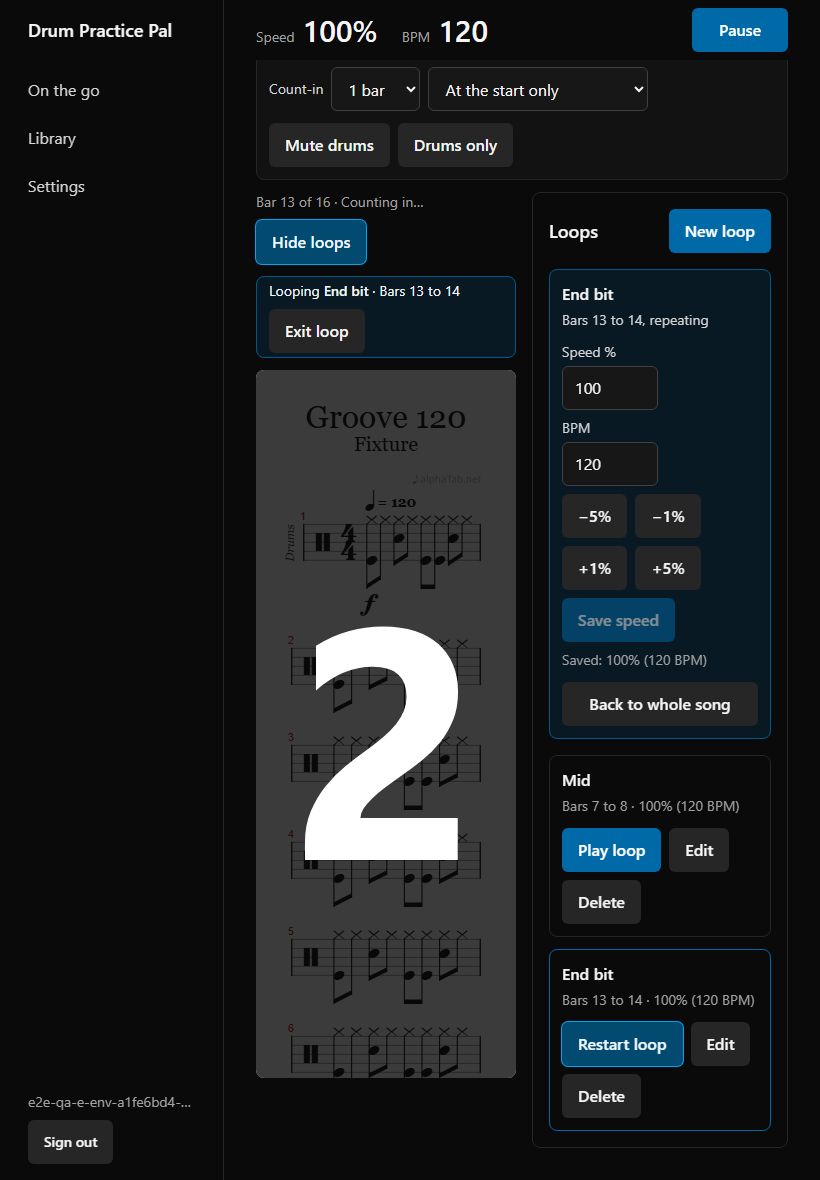
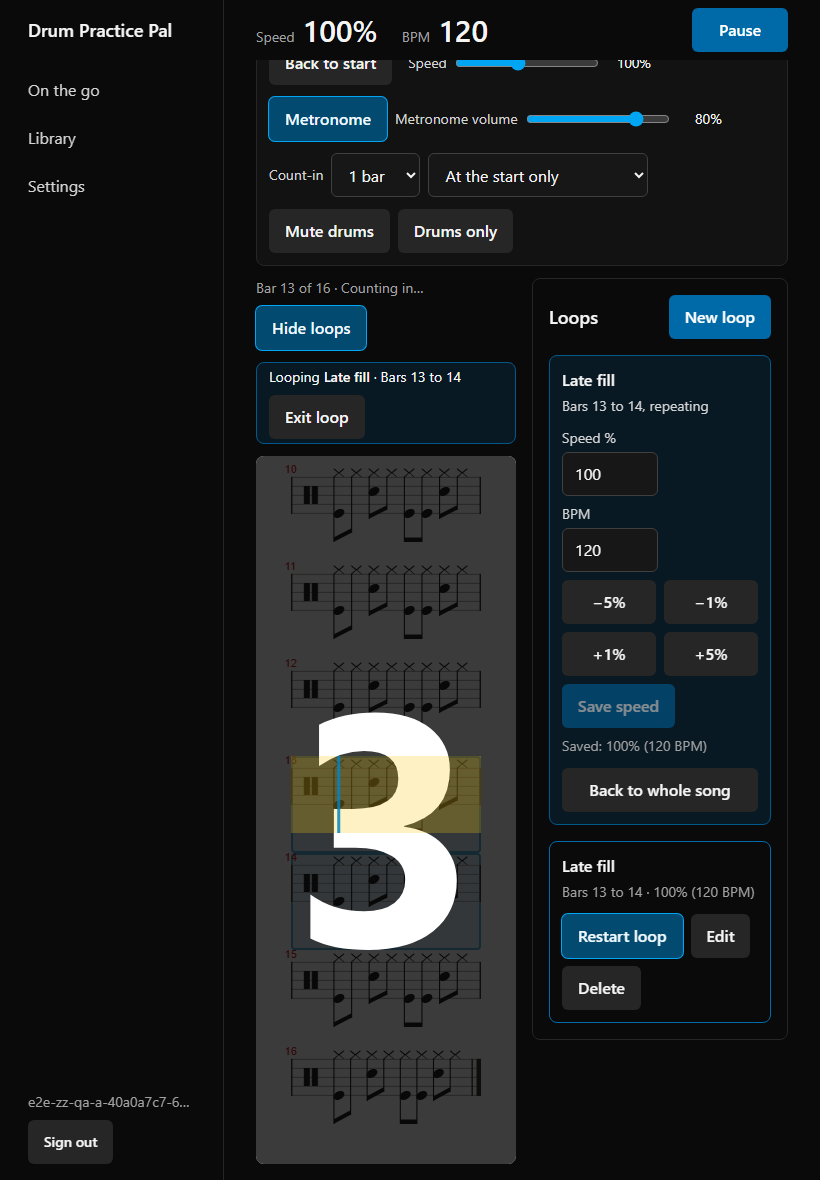
unit 08: qa (round 1 re-run)

diff --git a/docs/units/08-loops.md b/docs/units/08-loops.md
@@ -428,3 +428,77 @@ No other bug. Nothing in Unit 07's count-in changed: `PlayerService.countIn*.tes
 - `npm run e2e`: green, on a build Playwright made itself. 294 tests: 280 passed, 14 skipped (the 10 from before, and tests 4 and 5 on the phone and tablet projects).
 - `npx playwright test tests/e2e/loop-scroll.spec.ts --repeat-each 3`: 78 passed, 12 skipped, no flakes.
 - `npm run test:db`: not run; nothing in the database or `tests/db` changed.
+
+## QA (fix round 1)
+
+**Verdict: PASS.** Issue 1 is fixed as it was reported: "Play loop" on a phone now shows the whole count-in number, and the loop's first bar is in the score box during the count-in at all three sizes. Issue 2 is fixed in its main form. No blocker and no major issue. Five new issues are logged, four minor and one cosmetic; the first of them (N1) is the part of issue 1 the fix does not reach and is the one to read. No app code was changed here. Nothing was heard.
+
+**How it was tested.** Local Supabase, the e2e build (`npm run build -- --mode development`, `vite preview`), headless Chromium from throwaway specs at 390x844, 820x1180 and 1440x900, plus 844x390 and 700 px wide for the rotation and breakpoint runs. The page measured itself on every animation frame through `window.__drumPalPlayer`: status, count-in beat, the score box and its scroll, the bar cursor, the start of the highlight, the count-in number, what `elementFromPoint` finds over the number, and the sheet's `aria-expanded`. So "on every frame" below means every frame of that count-in (about 120 for a one-bar count-in at 120 BPM). Touch projects tapped with `touchscreen.tap` and panned with CDP touch events. The CPU was throttled 6x through CDP for the downbeat runs. The throwaway specs are deleted and their users were removed by the `user` fixture.
+
+**Issue 1: fixed.** The original repro, run exactly (groove-120, a loop on bars 13 to 14, Count-in 1 bar then 2 bars, Back to start, the score put back on bar 1, open Loops, "Play loop"), and again after Exit loop:
+
+| Size    | Sheet or panel              | Count-in number                                                                                                                          | Loop's first bar during the count-in                                                            | On the downbeat        |
+| ------- | --------------------------- | ---------------------------------------------------------------------------------------------------------------------------------------- | ----------------------------------------------------------------------------------------------- | ---------------------- |
+| Phone   | Closes; header "Loop: …"    | Whole number in the window with nothing over it, from 100 to 120 ms after the press (6 or 7 frames, while the window scrolls) to the end | In the box on every frame; scrolled 0 to 2811 px before the first frame; at the box's left edge | The score doesn't move |
+| Tablet  | Stays open beside the score | In the clear on every frame                                                                                                              | In the box on every frame (scroll 0 to 1033)                                                    | The score doesn't move |
+| Desktop | Stays open                  | In the clear from the third frame                                                                                                        | In the box on every frame (scroll 0 to 410)                                                     | The score doesn't move |
+
+Retaken, overwriting the old shots: `phone-120-count-in-play-loop.png`, `phone-123-count-in-with-panel-open.png` (the name is kept; the panel is now closed in it, which is the point), `tablet-120-count-in-play-loop.png`, and the `120`, `121`, `123` and `124` shots of the same run at the other sizes. New shots are `<size>-160` to `<size>-183`.
+
+**Issue 2: fixed in its main form.** A loop saved from typed bars while paused, a loop chosen from the panel, an edited range and every count-in scroll to the loop's first bar (bars 15 to 16, 16, 1, 7 and 9, from either end of the score, at all three sizes). Still open, as the Build said: bars typed into the open form are highlighted but not scrolled to (seen again: bars 13 to 14 typed with the score on bar 1). After a rotation alphaTab's own re-layout brought the paused loop back into the box in every run here (phone to landscape and back, tablet and laptop to 700 px and back), so that half is better than the Build note fears; N5 is the one case where it wasn't.
+
+**Break-it results** (all three sizes unless noted)
+
+| Tried                                                                        | Result                                                                                                                                                                                                                                                                          |
+| ---------------------------------------------------------------------------- | ------------------------------------------------------------------------------------------------------------------------------------------------------------------------------------------------------------------------------------------------------------------------------- |
+| Before every repeat, 3 and 4 repeats (bars 5 to 8 and 2 to 12, 200%)         | Pass. Every count-in starts with the loop's first bar in the box (the phone scrolls back 678 px, the tablet 291 px each time); statuses run count in, play, count in, play; the number is clear on every beat; no movement on the downbeat (`160`)                              |
+| Plain Play, 2-bar count-in, score scrolled to its end, no loop               | Pass. Bar 1 is in the box from the first frame (`161`)                                                                                                                                                                                                                          |
+| The user scrolls the score during a count-in                                 | Pass. Nothing pulls it back while it counts; on the downbeat alphaTab scrolls to the playing bar over about 300 ms, as in jam mode                                                                                                                                              |
+| "Play loop" while playing; 12 fast alternating presses on two loops          | Pass. The phone sheet stays open for all 12, the only status is `playing`, and it ends on the last loop pressed with its bar in the box (`162`)                                                                                                                                 |
+| Switching loops during the count-in (phone: reopen the sheet, press)         | Pass. The count restarts for the new loop, the score goes to its first bar, the sheet closes again                                                                                                                                                                              |
+| Loop on the last bars (15 to 16), on bar 16, on bar 1, on bars 7 and 9       | Pass. First bar wholly in the box through the count-in. Bar 16 can't reach the box's start (the score ends) and sits 89 px in on the phone; on the laptop and tablet it is in the lower half, where the number is: N3 (`163`)                                                   |
+| Tempo change: bars 8 to 9 and 9 to 12, before every repeat                   | Pass. Counts at 120 for bar 8 (2.0 s) and at 90 for bar 9 (2.7 s), the bar in the box each time (`164`)                                                                                                                                                                         |
+| Waltz, bars 6 to 7; repeats fixture, bars 3 to 4 and 4 to 5                  | Pass. Three beats to the bar; the first bar is in the box at every count-in. Bars 4 to 5 still play 4, 3, 4, 5 (old issue 3) (`165`)                                                                                                                                            |
+| Horizontal layout against page layout                                        | Pass. Horizontal: the bar goes to the left edge. Page: its line goes to the top. Both match where alphaTab puts the playing bar, so a bar that was scrolled to doesn't move again on the downbeat                                                                               |
+| Rotating and crossing 768 px with a loop selected                            | Pass with N5. Two seconds after the resize the paused loop is in the box; Play and "Play loop" then count in over it; rotating while it plays keeps `playing`; rotating during the count-in, the bar is back in the box for the last second of it (`167`, `168`, `183`)         |
+| Pause during the count-in, scroll away, Play again                           | Pass. `ready`, the sheet stays closed, then a fresh count-in that scrolls back to the bar. "Restart loop" during a count-in restarts it                                                                                                                                         |
+| Exit loop                                                                    | While playing: carries on, no jump. During a count-in: stops (old issue 11), the counter goes, the score stays (`166`)                                                                                                                                                          |
+| Taps on bars cut by an edge of the score box, paused                         | Pass. 16 taps a size (jam mode, jam mode with a count-in set, inside a paused loop; by the left and right edges on the phone, top and bottom in page layout, a finger on the touch sizes): the tap seeks and neither the score box nor the window moves, not by a pixel (`169`) |
+| "Show loops" then "Play loop" 0, 150, 400 and 1000 ms later (tablet, laptop) | Pass. The score is being laid out again at the new width, and the bar is still in the box on every frame. "Hide loops" during the count-in: in the box for its last second (`181`, `182`)                                                                                       |
+| CPU throttled 6x                                                             | Same numbers as unthrottled. The count-in's scroll lands before the first frame either way. The downbeat movement that does exist (N2) is not a throttling effect                                                                                                               |
+
+**Regressions: none found.** Jam mode at 200% keeps the playing bar in the box on every frame for bars 1 to 9 at all three sizes; a tap while playing seeks and keeps playing; the jam count-in counter is clear on every beat (`172`); picking bars with the form open moves neither the score box nor the window (`173`). The full e2e suite is green (below).
+
+**The cost of the closed sheet (phone).** Measured on the real flow: reload the song, open Loops, "Play loop", then go for the speed.
+
+- One or two loops: the sheet closes; tapping its header brings it back at the top with the "Practicing" card and all of the speed control on show (`174` to `177`). So a nudge is two taps (Open, +5%) where it was one, and while the sheet is open it covers the score from 144 px down, which cuts the bottom of the staff.
+- Five loops (anything that needs the list scrolled to reach the item): the sheet comes back where it was, `scrollTop` 398, with the speed control 261 px above the visible part (`178`). Then it is tap, scroll, tap. The Test note's two-loop repro had a loop already playing, which is what made its list long enough to scroll; from a cold start two loops fit.
+- After the sheet closes, focus is on `<body>` (the pressed button is hidden).
+- **Severity: minor.** Nothing is lost and playback never stops, but changing speed mid-practice is the next thing anyone does after starting a loop, and it now needs the sheet open over the score. It belongs with Unit 12's question of where the speed lives on a phone; the smallest help before then would be to scroll the sheet's body to the top when it opens with a loop playing.
+
+**New issues**
+
+- **N1. Minor. On a phone, Play pressed with the sheet open still hides the count-in number.** The fix closes the sheet on "Play loop" only. Repro at 390x844: Count-in 1 bar, save a new loop (the sheet has to be open to save it and stays open, loop selected), press Play in the sticky bar. The number is behind the sheet on every frame of the count-in (`phone-180`); with "Before every loop repeat" it is hidden at every repeat as well. The same after "Play loop", reopening the sheet for the speed, Pause, Play. The loop's first bar is in the box and its top half shows above the sheet. Rated minor, not major, because the way round is now one obvious tap (Close) and the press that can only be made with the sheet open is fixed. It is still the symptom of issue 1 on the first thing anyone does after saving a loop, so it is worth a few lines soon: close the sheet whenever a count-in starts on a phone, or draw the counter in the part of the score the sheet leaves.
+- **N2. Minor. When the loop's first bar is already on show but not at the start of the box, the score slides on the downbeat.** `scrollToShow` leaves a visible bar alone; alphaTab then moves it to its own place over about 300 ms the moment playback starts. Repro at 820 or 1440 wide: Count-in 1 bar, save a loop on bars 5 to 6 with the score at the top (bar 5 is on the third line), press Play: the count-in runs over the bar where it is, and on the downbeat the line moves up 453 px (tablet) or 244 px (laptop). On a phone, a first bar 100 px in from the left edge slides those 100 px. The same with and without CPU throttling, and only on the first count-in; repeats find the bar already in place. Not new (before the fix every start did this, and jam mode does it after a tap), but it is the moment the first bar is being read. A count-in could always put its bar at the start of the box, since no finger is on the score then; taps must keep leaving it alone.
+- **N3. Minor. In page layout the count-in number can sit on top of the loop's first bar.** When the bar can't go to the top of the box (a loop in the last lines of the song), it is in the middle or lower half, under the number: bars 13 to 14 on the tablet (`tablet-120`), bar 16 on the laptop (`desktop-163`). The bar is on screen and dimmed, as Unit 07 drew it, but can't be read through the digit. The phone is not affected (the staff is at the top of the box, the number below it).
+- **N4. Minor. The reopened sheet keeps its scroll position** (above; the Test note's bug 1, narrowed: three or more loops, or a loop already playing).
+- **N5. Cosmetic. "Play loop" pressed within about 150 ms of the window crossing from page to horizontal layout counts in over the wrong place.** Repro: laptop or tablet, loop on bars 13 to 14 selected and paused, narrow the window to 700 px and press "Play loop" at once: the box goes to 3025 px while the bar is at 2811, so the first bar is 214 px off the left edge for the whole count-in and until the next bar. Two seconds after the resize the same press is right. Not reached by a rotation in any run here.
+
+**Fixed by QA.** Nothing. N5 is cosmetic in effect but is a timing fault in the engine, not a styling change.
+
+**Carried forward** (`docs/plan.md`, Unit 12): N1, N2 and N3 as new lines; N4 folded into the existing line about the speed control behind the sheet, with what was measured; N5 added to the line about what is left of issue 2.
+
+**Human check (Shane)**, added to the earlier list
+
+- Phone at the kit: "Play loop" with a 1-bar and a 2-bar count-in. Is the number readable from the throne now that the sheet closes, and does the closing sheet feel right or abrupt?
+- By ear: with "Before every loop repeat", does each repeat still come in on the downbeat now that the score scrolls back at the start of each count-in? Nothing was heard.
+- Phone: play a loop, then change its speed. Two taps with the sheet over the lower score: acceptable until Unit 12, or worth fixing first?
+- Phone: save a new loop with a count-in on, press Play (N1). Does the missing number matter when the clicks are audible?
+- Tablet and laptop: N2, the slide on the downbeat. Distracting or unnoticed?
+- iPhone Safari: the sheet closes in the same tap that starts audio. Confirm the first "Play loop" still makes sound, count-in on and off.
+
+**Results**
+
+- `npm run check`: green after the notes were formatted. 78 test files, 3087 tests.
+- `npm run e2e`: green. 294 tests: 280 passed, 14 skipped (the same size-specific skips as the Test stage).
+- `npm run test:db`: not run; nothing in the database or `tests/db` changed.

diff --git a/docs/plan.md b/docs/plan.md
@@ -417,8 +417,10 @@ Handoff notes written before the Visual design unit was added call the release u
 - The on-phone controls bar is four rows. (05 Build)
 - From 06 QA: the volume readout overflows the controls box at 320 px and below; the sticky bar has no bottom edge; on a phone the score opens scrolled 47 px sideways, clipping the clef; double-tap on the score may zoom.
 - From 08 Build: on a tablet in portrait the open loop panel leaves the score about 230 px, one bar to a line (it starts closed there). The playing loop shows twice in the panel, as the card with the speed control and in the list. The controls bar's speed slider moves in 5% steps, so at a speed such as 71% its thumb sits at 70 while the readout says 71%. The controls bar was not regrouped.
-- What is left of 08 QA issue 2 (a loop chosen while paused, and every count-in, now scroll to their first bar): bars typed into the loop form are highlighted but not scrolled to, and after a rotation or a resize across 768 px the picked bars or the paused loop can be outside the score box. The score box only scrolls when a loop's range is applied while not playing (`player.showBar`) and at the start of a count-in. (08 Build, QA fix round 1)
-- On a phone "Play loop" closes the loop sheet so the score and the count-in number show; the speed control is then one tap away behind the sheet's header, and focus is left on the hidden button. Decide where the loop's speed lives while practising on a phone. It is more than one tap away in practice: the reopened sheet comes back scrolled to the list item that was pressed, so with as few as two loops the speed control is above the sheet's visible part and has to be scrolled to. (08 Build, QA fix round 1; 08 Test, QA fix round 1, bug 1)
+- What is left of 08 QA issue 2 (a loop chosen while paused, and every count-in, now scroll to their first bar): bars typed into the loop form are highlighted but not scrolled to, and after a rotation or a resize across 768 px the picked bars or the paused loop can be outside the score box. The score box only scrolls when a loop's range is applied while not playing (`player.showBar`) and at the start of a count-in. In QA alphaTab's own re-layout brought a paused loop back into the box after every rotation tried; the one miss was "Play loop" pressed within about 150 ms of crossing from page to horizontal layout, which counts in with the first bar 214 px off the left edge. (08 Build, QA fix round 1; 08 QA fix round 1, N5)
+- On a phone "Play loop" closes the loop sheet so the score and the count-in number show; the speed control is then one tap away behind the sheet's header, and focus is left on the hidden button. Decide where the loop's speed lives while practising on a phone. The reopened sheet keeps the scroll position it was closed at: from a cold start with one or two loops the speed control is on show (two taps to nudge, with the sheet over the lower score), but with three or more loops, or a loop already playing, it is above the visible part and has to be scrolled to. Scrolling the sheet's body to the top when it opens with a loop playing would help before the redesign. (08 Build, QA fix round 1; 08 Test, QA fix round 1, bug 1; 08 QA fix round 1, N4)
+- On a phone the count-in number is still behind the loop sheet when playback starts with the sheet open by any press other than "Play loop": Play in the sticky bar straight after saving a new loop (the sheet stays open), Play after reopening the sheet for the speed, and every repeat's count-in while the sheet is open. Close the sheet whenever a count-in starts on a phone (not only in `LoopPanel`'s `onPlayLoop`), or draw the counter in the part of the score the sheet leaves. A few lines; do it before the redesign if Shane finds it at the kit. (08 QA fix round 1, N1)
+- A count-in leaves its bar where it is when the bar is already on show (`scrollToShow`), and alphaTab then slides it to the start of the box over about 300 ms on the downbeat: up to 453 px on a tablet, 244 px on a laptop, 100 px on a phone. A count-in could always put its bar at the start of the box; a tap must keep leaving the score alone. In page layout, a loop in the last lines of the song can't reach the top of the box and sits under the count-in number, where it can't be read. (08 QA fix round 1, N2 and N3)
 - From 08 QA: the playing loop's card with the speed control is always at the top of the panel, thousands of pixels from the item pressed in a long list (issue 5). On a phone with the sheet open and nothing playing, about 85 px of the score shows (issue 6). A long unbroken loop name makes the "Looping" line up to 220 px tall (issue 13). A phone in landscape with the panel open leaves a 284 x 234 px score.
 
 ### 13 Polish and release
